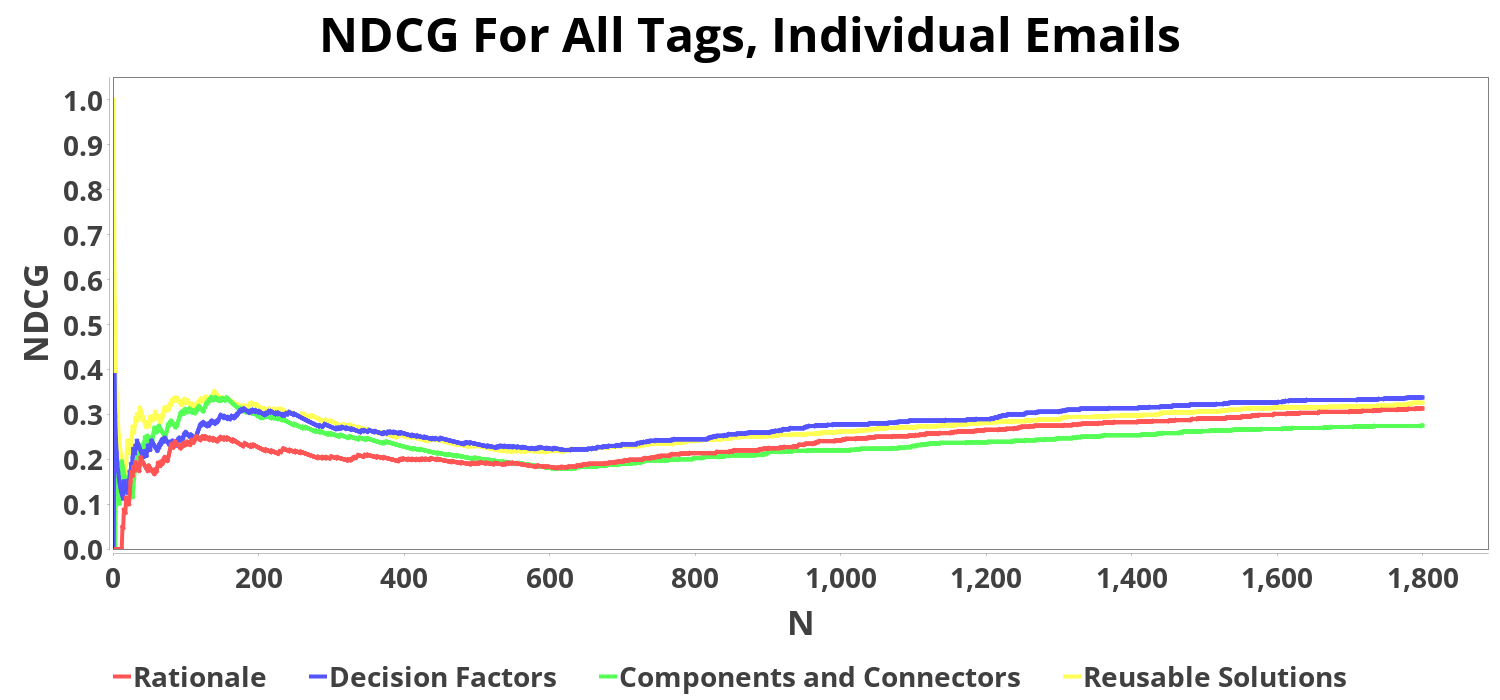
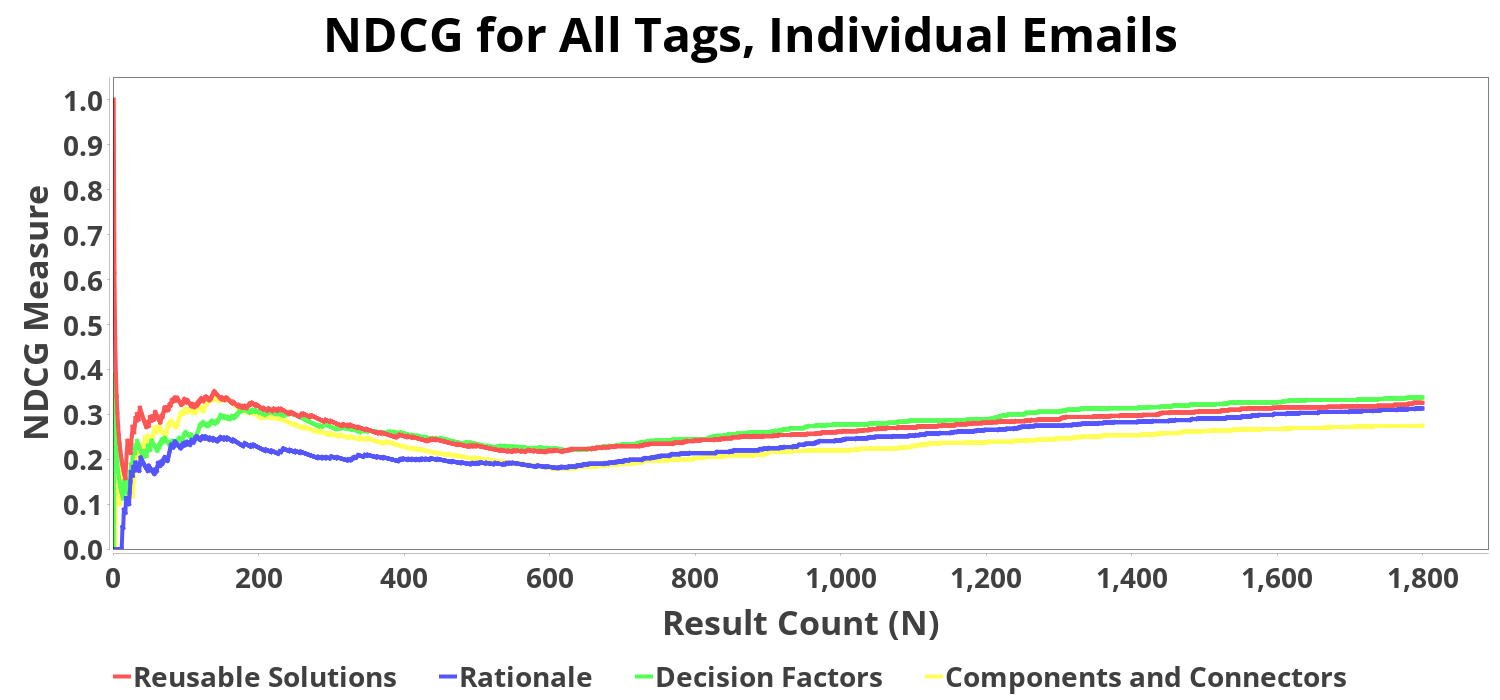
Added other charts.

diff --git a/visual/jVisualizer/src/main/java/nl/andrewl/jvisualizer/render/SearchPerformanceRenderer.java b/visual/jVisualizer/src/main/java/nl/andrewl/jvisualizer/render/SearchPerformanceRenderer.java
@@ -1,5 +1,6 @@
 package nl.andrewl.jvisualizer.render;
 
+import com.google.gson.JsonArray;
 import com.google.gson.JsonObject;
 import nl.andrewl.jvisualizer.ChartRenderer;
 import nl.andrewl.jvisualizer.JVisualizer;
@@ -14,7 +15,7 @@ import org.jfree.data.xy.XYSeriesCollection;
 
 import java.awt.*;
 import java.io.File;
-import java.util.List;
+import java.io.IOException;
 import java.util.Map;
 
 public class SearchPerformanceRenderer implements ChartRenderer {
@@ -33,38 +34,64 @@ public class SearchPerformanceRenderer implements ChartRenderer {
 
 		XYSeriesCollection allTagsEmailNdcgCollection = new XYSeriesCollection();
 		XYSeriesCollection allTagsThreadNdcgCollection = new XYSeriesCollection();
+		XYSeriesCollection allTagsEmailPrecisionCollection = new XYSeriesCollection();
+		XYSeriesCollection allTagsThreadPrecisionCollection = new XYSeriesCollection();
 		for (var entry : datas.entrySet()) {
 			String name = entry.getKey();
-			XYSeries emailNdcgSeries = new XYSeries(name);
-			int n = 1;
-			for (var item : entry.getValue().getAsJsonObject("all_tags").getAsJsonArray("email_ndcg")) {
-				emailNdcgSeries.add(n++, item.getAsDouble());
-			}
-			XYSeries threadNdcgSeries = new XYSeries(name);
-			n = 1;
-			for (var item : entry.getValue().getAsJsonObject("all_tags").getAsJsonArray("thread_ndcg")) {
-				threadNdcgSeries.add(n++, item.getAsDouble());
-			}
-			allTagsEmailNdcgCollection.addSeries(emailNdcgSeries);
-			allTagsThreadNdcgCollection.addSeries(threadNdcgSeries);
+			JsonObject allTags = entry.getValue().getAsJsonObject("all_tags");
+			allTagsEmailNdcgCollection.addSeries(getJsonArraySeries(name, allTags.getAsJsonArray("email_ndcg")));
+			allTagsThreadNdcgCollection.addSeries(getJsonArraySeries(name, allTags.getAsJsonArray("thread_ndcg")));
+			allTagsEmailPrecisionCollection.addSeries(getJsonArraySeries(name, allTags.getAsJsonArray("email_precision")));
+			allTagsThreadPrecisionCollection.addSeries(getJsonArraySeries(name, allTags.getAsJsonArray("thread_precision")));
 		}
 
-		final RectangleInsets padding = new RectangleInsets(2, 2, 2, 40);
+		renderChart(
+				"NDCG for All Tags, Individual Emails",
+				allTagsEmailNdcgCollection,
+				"Result Count (N)",
+				"NDCG Measure",
+				"all_tags_email_ndcg.png"
+		);
+		renderChart(
+				"NDCG for All Tags, Email Threads",
+				allTagsThreadNdcgCollection,
+				"Result Count (N)",
+				"NDCG Measure",
+				"all_tags_thread_ndcg.png"
+		);
+		renderChart(
+				"Precision for All Tags, Individual Emails",
+				allTagsEmailPrecisionCollection,
+				"Result Count (N)",
+				"Precision Measure",
+				"all_tags_email_precision.png"
+		);
+		renderChart(
+				"Precision for All Tags, Email Threads",
+				allTagsThreadPrecisionCollection,
+				"Result Count (N)",
+				"Precision Measure",
+				"all_tags_thread_precision.png"
+		);
+	}
 
-		JFreeChart allTagsEmailNdcgChart = ChartFactory.createXYLineChart("NDCG For All Tags, Individual Emails", "N", "NDCG", allTagsEmailNdcgCollection);
-		JVisualizer.getTheme().apply(allTagsEmailNdcgChart);
-		allTagsEmailNdcgChart.getLegend().setItemLabelPadding(padding);
-		XYItemRenderer renderer = allTagsEmailNdcgChart.getXYPlot().getRenderer();
+	private void renderChart(String title, XYSeriesCollection collection, String xAxisLabel, String yAxisLabel, String filename) throws IOException {
+		JFreeChart chart = ChartFactory.createXYLineChart(title, xAxisLabel, yAxisLabel, collection);
+		JVisualizer.getTheme().apply(chart);
+		final RectangleInsets padding = new RectangleInsets(2, 2, 2, 40);
+		chart.getLegend().setItemLabelPadding(padding);
+		XYItemRenderer renderer = chart.getXYPlot().getRenderer();
 		renderer.setDefaultStroke(new BasicStroke(4.0f));
 		((AbstractRenderer) renderer).setAutoPopulateSeriesStroke(false);
-		ChartUtils.saveChartAsPNG(new File("all_tags_email_ndcg.png"), allTagsEmailNdcgChart, 1500, 700);
+		ChartUtils.saveChartAsPNG(new File(filename), chart, 1500, 700);
+	}
 
-		JFreeChart allTagsThreadNdcgChart = ChartFactory.createXYLineChart("NDCG For All Tags, Threads", "N", "NDCG", allTagsThreadNdcgCollection);
-		JVisualizer.getTheme().apply(allTagsThreadNdcgChart);
-		allTagsThreadNdcgChart.getLegend().setItemLabelPadding(padding);
-		XYItemRenderer renderer2 = allTagsThreadNdcgChart.getXYPlot().getRenderer();
-		renderer2.setDefaultStroke(new BasicStroke(4.0f));
-		((AbstractRenderer) renderer2).setAutoPopulateSeriesStroke(false);
-		ChartUtils.saveChartAsPNG(new File("all_tags_thread_ndcg.png"), allTagsThreadNdcgChart, 1500, 700);
+	private XYSeries getJsonArraySeries(String name, JsonArray array) {
+		XYSeries series = new XYSeries(name);
+		int n = 1;
+		for (var item : array) {
+			series.add(n++, item.getAsDouble());
+		}
+		return series;
 	}
 }

diff --git a/visual/jVisualizer/src/main/java/nl/andrewl/jvisualizer/render/CharacteristicRenderer.java b/visual/jVisualizer/src/main/java/nl/andrewl/jvisualizer/render/CharacteristicRenderer.java
@@ -1,0 +1,98 @@
+package nl.andrewl.jvisualizer.render;
+
+import com.google.gson.JsonArray;
+import com.google.gson.JsonObject;
+import nl.andrewl.jvisualizer.ChartRenderer;
+import nl.andrewl.jvisualizer.JVisualizer;
+import org.jfree.chart.ChartFactory;
+import org.jfree.chart.ChartUtils;
+import org.jfree.chart.JFreeChart;
+import org.jfree.chart.axis.CategoryLabelPositions;
+import org.jfree.chart.plot.CategoryPlot;
+import org.jfree.chart.renderer.category.BoxAndWhiskerRenderer;
+import org.jfree.chart.ui.RectangleInsets;
+import org.jfree.data.statistics.DefaultBoxAndWhiskerCategoryDataset;
+
+import java.awt.*;
+import java.io.File;
+import java.io.IOException;
+import java.util.ArrayList;
+import java.util.List;
+
+public class CharacteristicRenderer implements ChartRenderer {
+	@Override
+	public void renderCharts(JsonObject data) throws Exception {
+		generateBoxPlot(
+				"Email Body Size",
+				data.getAsJsonObject("body_size"),
+				"Body Size (# of characters)",
+				"body_size.png"
+		);
+		generateBoxPlot(
+				"Email Word Count",
+				data.getAsJsonObject("word_count"),
+				"Word Count (# of words)",
+				"word_count.png"
+		);
+		generateBoxPlot(
+				"Thread Size",
+				data.getAsJsonObject("thread_size"),
+				"Thread Size (# of emails)",
+				"thread_size.png"
+		);
+		generateBoxPlot(
+				"Thread Participation",
+				data.getAsJsonObject("thread_participation"),
+				"Thread Participation (# of participants)",
+				"thread_participation.png"
+		);
+	}
+
+	private void generateBoxPlot(String title, JsonObject data, String valueAxisLabel, String filename) throws IOException {
+		DefaultBoxAndWhiskerCategoryDataset dataset = new DefaultBoxAndWhiskerCategoryDataset();
+		dataset.add(mapJsonIntArray(data.getAsJsonArray("any_tag")), "Architectural", "Any Tag");
+		dataset.add(
+				mapJsonIntArray(data.getAsJsonObject("tag_data").getAsJsonArray("existence")),
+				"Architectural",
+				"Existence"
+		);
+		dataset.add(
+				mapJsonIntArray(data.getAsJsonObject("tag_data").getAsJsonArray("process")),
+				"Architectural",
+				"Process"
+		);
+		dataset.add(
+				mapJsonIntArray(data.getAsJsonObject("tag_data").getAsJsonArray("property")),
+				"Architectural",
+				"property"
+		);
+		dataset.add(
+				mapJsonIntArray(data.getAsJsonObject("tag_data").getAsJsonArray("technology")),
+				"Architectural",
+				"Technology"
+		);
+		dataset.add(mapJsonIntArray(data.getAsJsonArray("not_ak")), "Non-architectural", "Any Tag");
+
+		JFreeChart chart = ChartFactory.createBoxAndWhiskerChart(title, "Type", valueAxisLabel, dataset, true);
+		JVisualizer.getTheme().apply(chart);
+		CategoryPlot plot = chart.getCategoryPlot();
+		plot.getDomainAxis().setCategoryLabelPositions(CategoryLabelPositions.UP_45);
+		BoxAndWhiskerRenderer renderer = (BoxAndWhiskerRenderer) plot.getRenderer();
+		renderer.setMeanVisible(false);
+		renderer.setMaxOutlierVisible(false);
+		renderer.setMinOutlierVisible(false);
+		renderer.setAutoPopulateSeriesStroke(false);
+		renderer.setDefaultStroke(new BasicStroke(8.0f));
+		final RectangleInsets padding = new RectangleInsets(2, 2, 2, 40);
+		chart.getLegend().setItemLabelPadding(padding);
+		ChartUtils.saveChartAsPNG(new File(filename), chart, 1500, 1000);
+	}
+
+	private List<Integer> mapJsonIntArray(JsonArray array) {
+		List<Integer> values = new ArrayList<>(array.size());
+		for (var item : array) {
+			values.add(item.getAsInt());
+		}
+		return values;
+	}
+}

diff --git a/visual/jVisualizer/src/main/java/nl/andrewl/jvisualizer/JVisualizer.java b/visual/jVisualizer/src/main/java/nl/andrewl/jvisualizer/JVisualizer.java
@@ -2,6 +2,7 @@ package nl.andrewl.jvisualizer;
 
 import com.google.gson.Gson;
 import com.google.gson.JsonObject;
+import nl.andrewl.jvisualizer.render.CharacteristicRenderer;
 import nl.andrewl.jvisualizer.render.CountRenderer;
 import nl.andrewl.jvisualizer.render.SearchPerformanceRenderer;
 import org.jfree.chart.ChartTheme;
@@ -21,6 +22,7 @@ public class JVisualizer {
 
 		new CountRenderer().renderCharts(data.getAsJsonObject("count"));
 		new SearchPerformanceRenderer().renderCharts(data);
+		new CharacteristicRenderer().renderCharts(data.getAsJsonObject("characteristic"));
 	}
 
 	public static ChartTheme getTheme() {
